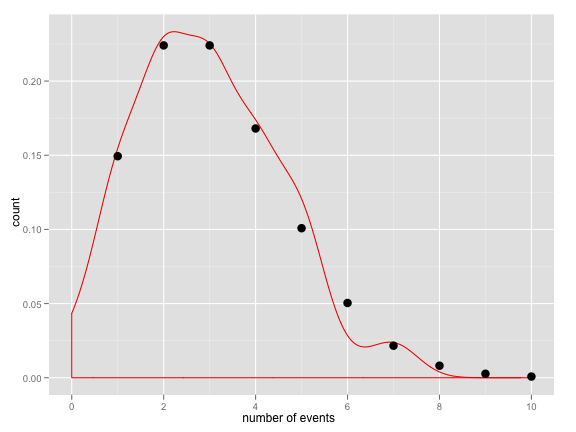
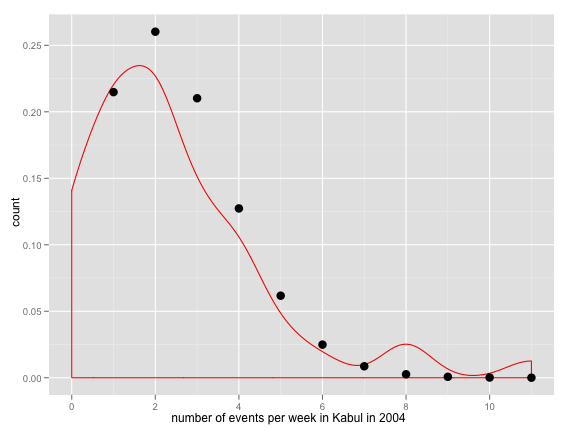
updated the explore and model images to be actual data, rather than synthetic. I mean, who will have respsect for synthetic data? Certainly not me no sir! Also massively update the density estimate example. Yay for coffee.

diff --git a/slides/Hacks_Hackers/wl_hh_benford.tex b/slides/Hacks_Hackers/wl_hh_benford.tex
@@ -154,7 +154,7 @@
 }
 
 \begin{frame}
-    \frametitle{Model}
+    \frametitle{Explore}
     \begin{center}
     \includegraphics[width=0.9\textwidth]{histogram.png}
     \end{center}
